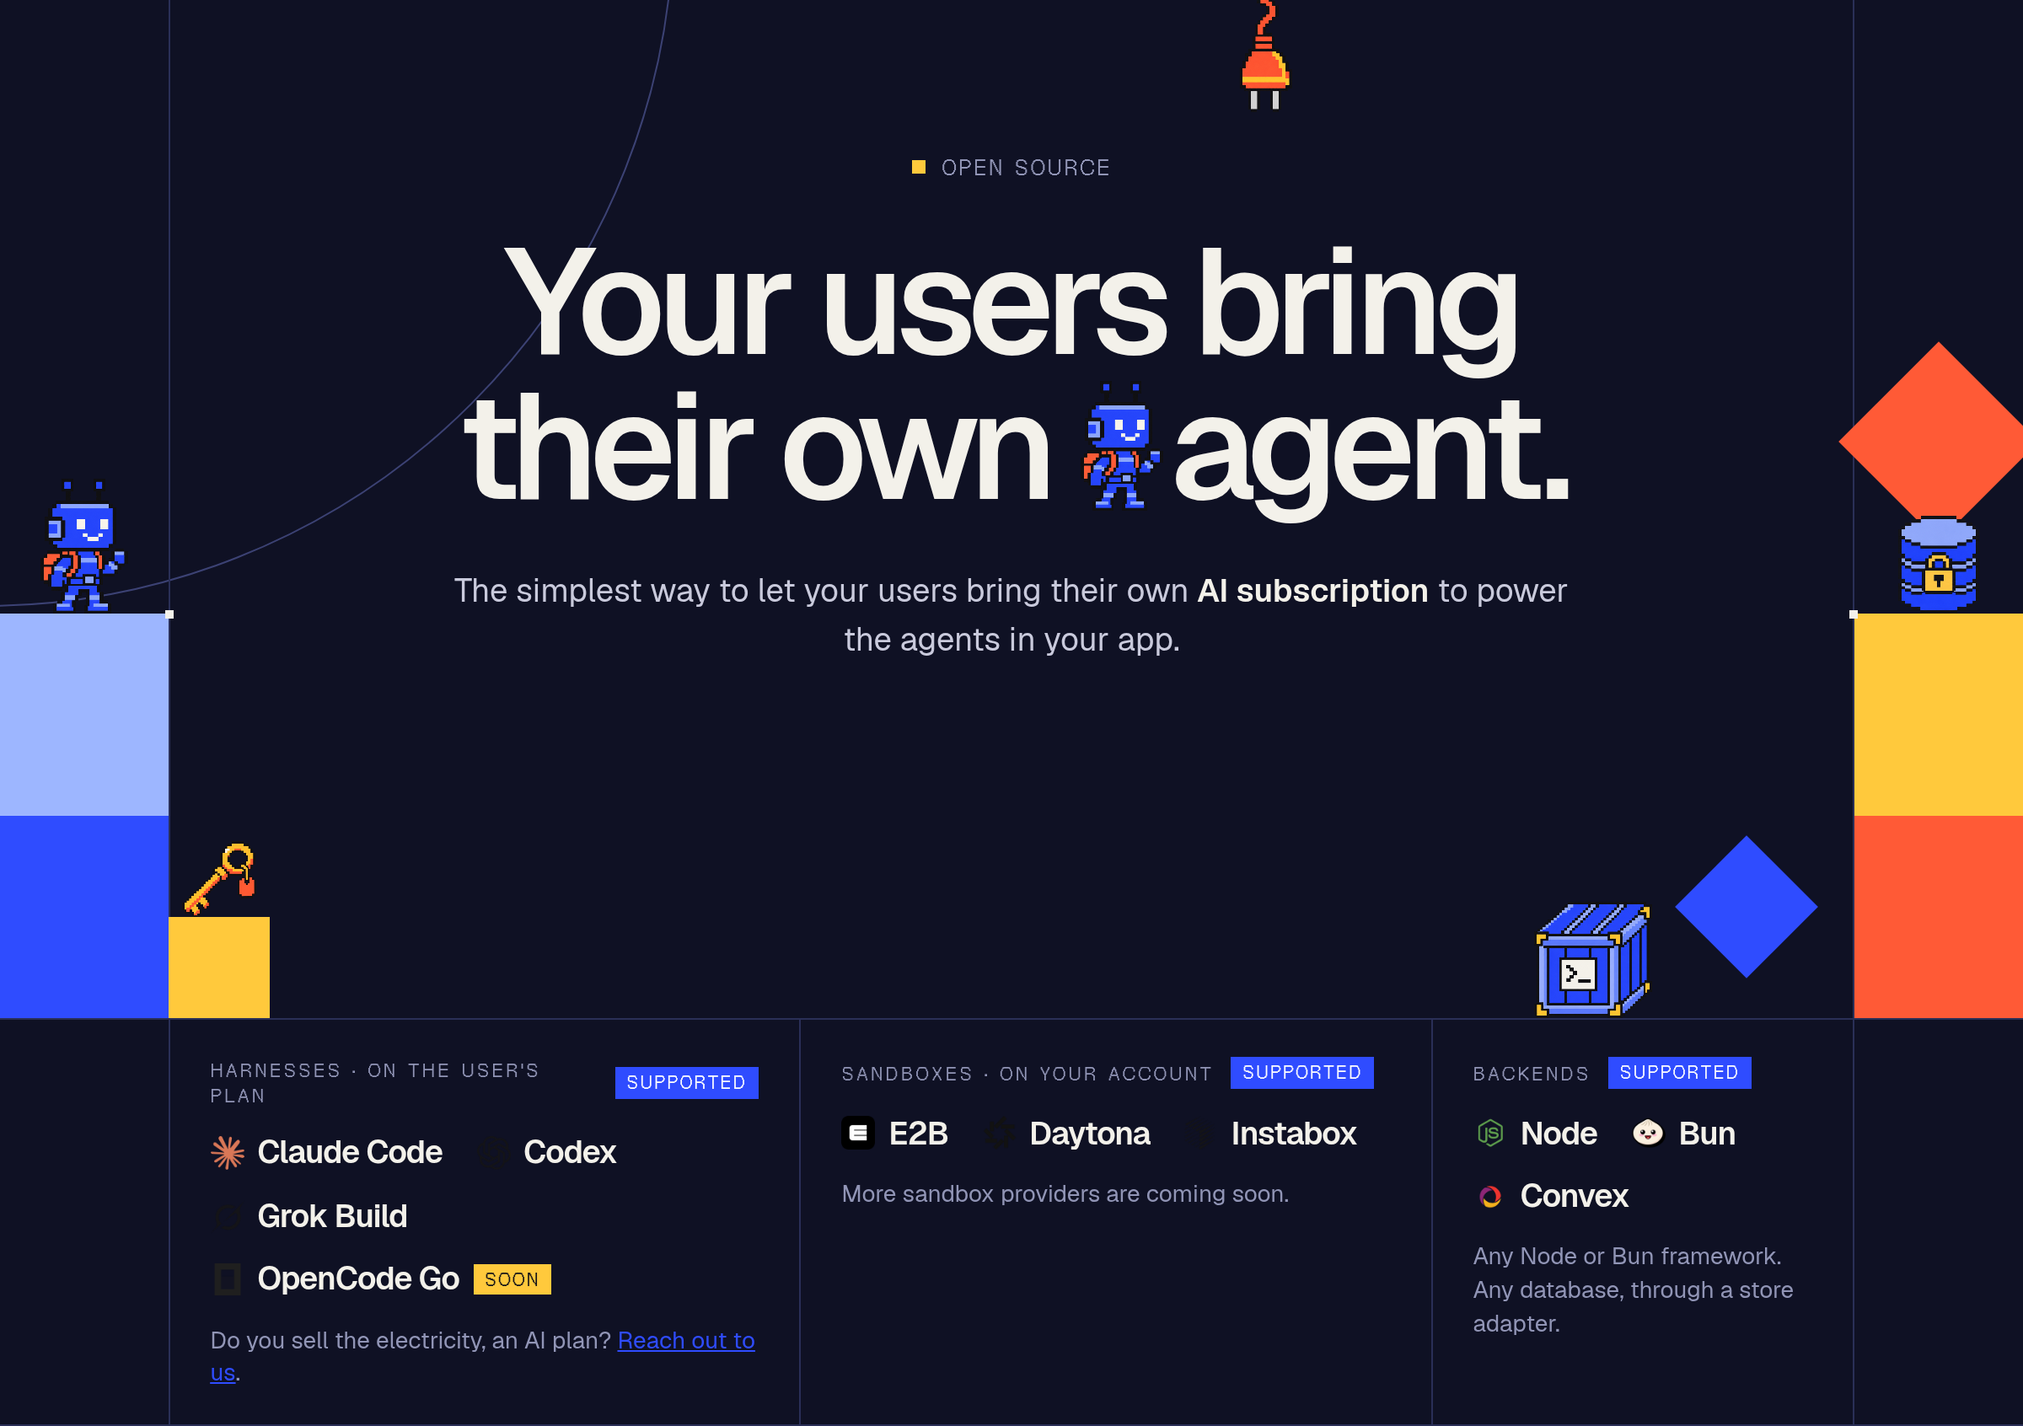
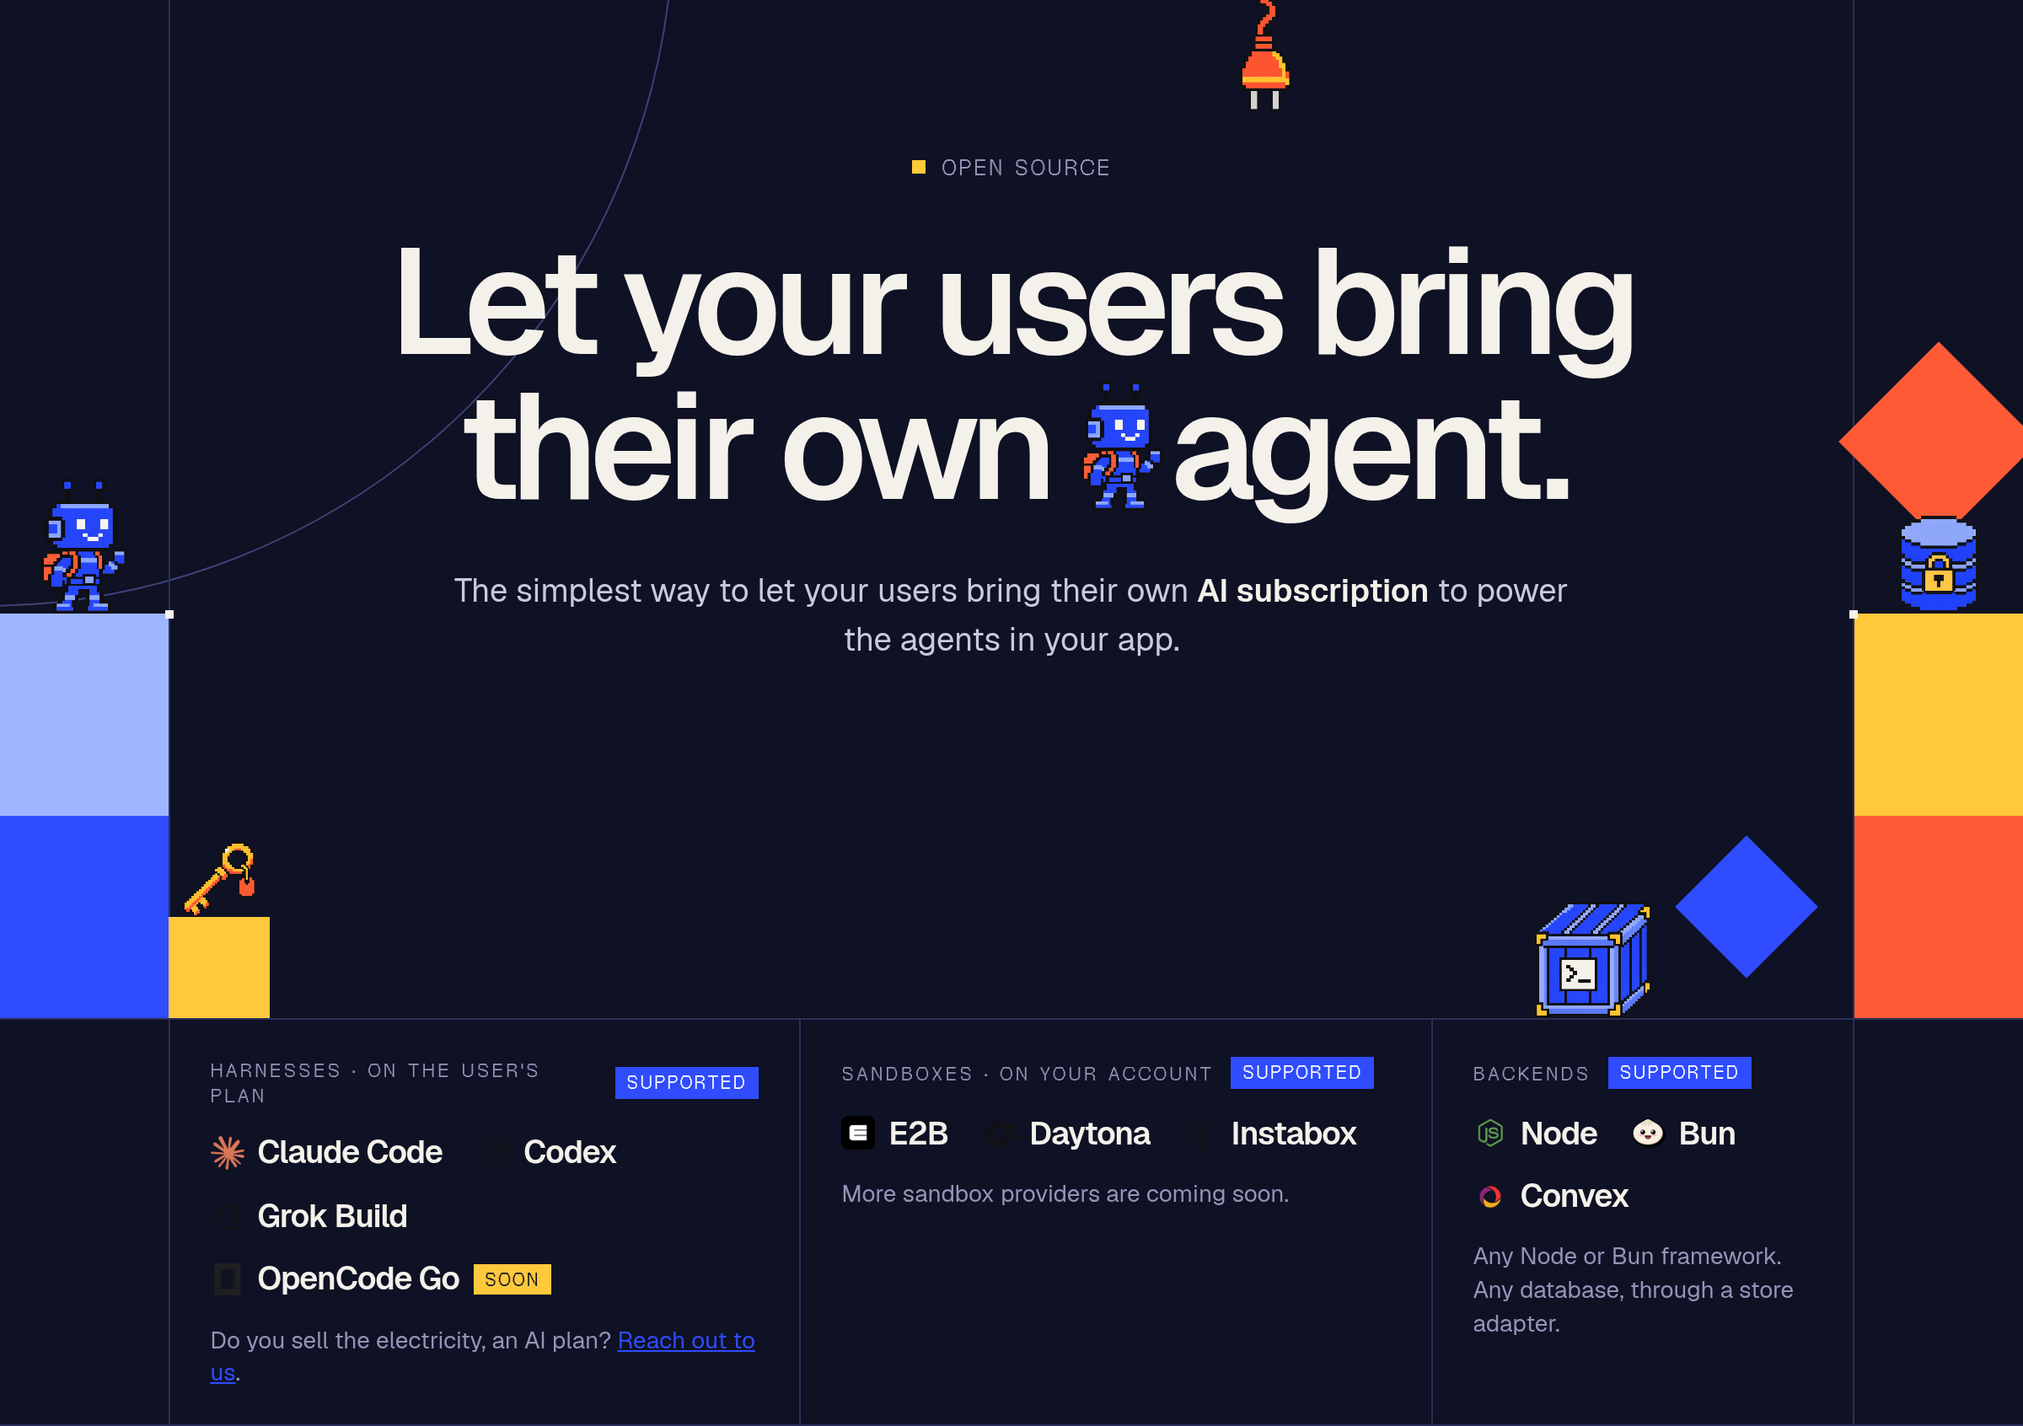
Site: "Let your users bring their own agent." in the hero, and a link card for every page
The hero headline now starts with "Let". The README banner and social preview are captured again from it.
Every page (home, docs, demo) now has og:image (site/art/og.png), og:url and twitter:card summary_large_image,
so a link on X, Slack or iMessage shows a card with the agents and the sandbox providers.

Amp-Thread-ID: https://ampcode.com/threads/T-01a21871-ddc4-733f-8c7f-58373b8a3448

Changed region(s): [[0.1875, 0.1537, 0.8125, 0.2766]]

diff --git a/site/index.html b/site/index.html
@@ -7,6 +7,12 @@
 <meta name="description" content="byoa, short for &quot;bring your own agent&quot;, is the simplest way to let your users bring their own AI subscription to power the agents in your app.">
 <meta property="og:title" content="byoa: bring your own agent">
 <meta property="og:description" content="byoa, short for &quot;bring your own agent&quot;, is the simplest way to let your users bring their own AI subscription to power the agents in your app.">
+<meta property="og:url" content="https://byoa.rippling.computer/">
+<meta property="og:image" content="https://byoa.rippling.computer/art/og.png">
+<meta property="og:image:width" content="2400">
+<meta property="og:image:height" content="1260">
+<meta property="og:image:alt" content="byoa: let your users bring their own agent. Agents: Claude Code, Codex, Grok Build. Sandboxes: E2B, Daytona, Instabox.">
+<meta name="twitter:card" content="summary_large_image">
 <meta name="theme-color" content="#f8f6f0">
 <link rel="canonical" href="https://byoa.rippling.computer/">
 <link rel="icon" href="art/agent.png">
@@ -340,7 +346,7 @@ if (!/^(localhost|127\.0\.0\.1|\[::1\])$/.test(location.hostname)) posthog.init(
     <span class="node" style="left:-3px;bottom:237px"></span><span class="node" style="right:-3px;bottom:237px"></span>
     <div>
       <span class="eyebrow"><i></i>OPEN SOURCE</span>
-      <h1>Your users bring<br>their own <img class="spr px" src="art/agent.png" alt="">agent.</h1>
+      <h1>Let your users bring<br>their own <img class="spr px" src="art/agent.png" alt="">agent.</h1>
       <p class="lead">The simplest way to let your users bring their own <b>AI subscription</b> to power the agents in your app.</p>
       <div class="cta">
         <a class="btn dark" href="#who"><span class="ico"><img class="px" src="art/crate.png" alt=""></span>See how it works <span class="chev"></span></a>

diff --git a/site/template.html b/site/template.html
@@ -7,6 +7,12 @@
 <meta name="description" content="byoa, short for &quot;bring your own agent&quot;, is the simplest way to let your users bring their own AI subscription to power the agents in your app.">
 <meta property="og:title" content="byoa: bring your own agent">
 <meta property="og:description" content="byoa, short for &quot;bring your own agent&quot;, is the simplest way to let your users bring their own AI subscription to power the agents in your app.">
+<meta property="og:url" content="https://byoa.rippling.computer/">
+<meta property="og:image" content="https://byoa.rippling.computer/art/og.png">
+<meta property="og:image:width" content="2400">
+<meta property="og:image:height" content="1260">
+<meta property="og:image:alt" content="byoa: let your users bring their own agent. Agents: Claude Code, Codex, Grok Build. Sandboxes: E2B, Daytona, Instabox.">
+<meta name="twitter:card" content="summary_large_image">
 <meta name="theme-color" content="#f8f6f0">
 <link rel="canonical" href="https://byoa.rippling.computer/">
 <link rel="icon" href="art/agent.png">
@@ -189,7 +195,7 @@
     <span class="node" style="left:-3px;bottom:237px"></span><span class="node" style="right:-3px;bottom:237px"></span>
     <div>
       <span class="eyebrow"><i></i>OPEN SOURCE</span>
-      <h1>Your users bring<br>their own <img class="spr px" src="art/agent.png" alt="">agent.</h1>
+      <h1>Let your users bring<br>their own <img class="spr px" src="art/agent.png" alt="">agent.</h1>
       <p class="lead">The simplest way to let your users bring their own <b>AI subscription</b> to power the agents in your app.</p>
       <div class="cta">
         <a class="btn dark" href="#who"><span class="ico"><img class="px" src="art/crate.png" alt=""></span>See how it works <span class="chev"></span></a>

diff --git a/examples/mail/demo.html b/examples/mail/demo.html
@@ -5,6 +5,14 @@
 <meta name="viewport" content="width=device-width, initial-scale=1">
 <title>byoa mail · live demo</title>
 <meta name="description" content="A live demo of byoa: sign in with your own Claude, ChatGPT or Grok plan, and your own coding agent triages a sample inbox in a sandbox.">
+<meta property="og:title" content="byoa mail · live demo">
+<meta property="og:description" content="Sign in with your own Claude, ChatGPT or Grok plan, and your own coding agent triages a sample inbox in a sandbox.">
+<meta property="og:url" content="https://byoa.rippling.computer/demo">
+<meta property="og:image" content="https://byoa.rippling.computer/art/og.png">
+<meta property="og:image:width" content="2400">
+<meta property="og:image:height" content="1260">
+<meta property="og:image:alt" content="byoa: let your users bring their own agent. Agents: Claude Code, Codex, Grok Build. Sandboxes: E2B, Daytona, Instabox.">
+<meta name="twitter:card" content="summary_large_image">
 <!-- The hosted demo of examples/mail. It is static: site/build.mjs copies it to byoa.rippling.computer/demo, and its
      backend is the Convex deployment in examples/mail/convex. Basecoat: shadcn/ui's components as plain CSS. -->
 <link rel="stylesheet" href="https://cdn.jsdelivr.net/npm/basecoat-css@1.1.0/dist/basecoat.cdn.min.css" integrity="sha384-pGk605ml41MkC5v6mwKQprSH7YgU5ZhqFrTH+liRoLfHsuOg7bGreN2+Dcb63/Ur" crossorigin="anonymous">

diff --git a/site/demo.html b/site/demo.html
@@ -5,6 +5,14 @@
 <meta name="viewport" content="width=device-width, initial-scale=1">
 <title>byoa mail · live demo</title>
 <meta name="description" content="A live demo of byoa: sign in with your own Claude, ChatGPT or Grok plan, and your own coding agent triages a sample inbox in a sandbox.">
+<meta property="og:title" content="byoa mail · live demo">
+<meta property="og:description" content="Sign in with your own Claude, ChatGPT or Grok plan, and your own coding agent triages a sample inbox in a sandbox.">
+<meta property="og:url" content="https://byoa.rippling.computer/demo">
+<meta property="og:image" content="https://byoa.rippling.computer/art/og.png">
+<meta property="og:image:width" content="2400">
+<meta property="og:image:height" content="1260">
+<meta property="og:image:alt" content="byoa: let your users bring their own agent. Agents: Claude Code, Codex, Grok Build. Sandboxes: E2B, Daytona, Instabox.">
+<meta name="twitter:card" content="summary_large_image">
 <!-- The hosted demo of examples/mail. It is static: site/build.mjs copies it to byoa.rippling.computer/demo, and its
      backend is the Convex deployment in examples/mail/convex. Basecoat: shadcn/ui's components as plain CSS. -->
 <link rel="stylesheet" href="https://cdn.jsdelivr.net/npm/basecoat-css@1.1.0/dist/basecoat.cdn.min.css" integrity="sha384-pGk605ml41MkC5v6mwKQprSH7YgU5ZhqFrTH+liRoLfHsuOg7bGreN2+Dcb63/Ur" crossorigin="anonymous">

diff --git a/site/docs/running-agents.html b/site/docs/running-agents.html
@@ -7,6 +7,12 @@
 <meta name="description" content="agents.run and its events, what the agent may do, sandbox modes, conversations and more messages to a running job, jobs at the same time, models and effort, session and jobToken">
 <meta property="og:title" content="Running agents · byoa docs">
 <meta property="og:description" content="agents.run and its events, what the agent may do, sandbox modes, conversations and more messages to a running job, jobs at the same time, models and effort, session and jobToken">
+<meta property="og:url" content="https://byoa.rippling.computer/docs/running-agents">
+<meta property="og:image" content="https://byoa.rippling.computer/art/og.png">
+<meta property="og:image:width" content="2400">
+<meta property="og:image:height" content="1260">
+<meta property="og:image:alt" content="byoa: let your users bring their own agent. Agents: Claude Code, Codex, Grok Build. Sandboxes: E2B, Daytona, Instabox.">
+<meta name="twitter:card" content="summary_large_image">
 <meta name="theme-color" content="#f8f6f0" media="(prefers-color-scheme: light)">
 <meta name="theme-color" content="#0f1124" media="(prefers-color-scheme: dark)">
 <link rel="canonical" href="https://byoa.rippling.computer/docs/running-agents">

diff --git a/site/docs/faq.html b/site/docs/faq.html
@@ -7,6 +7,12 @@
 <meta name="description" content="whether a user's AI account can get banned, many agents of one user, whether the agent remembers earlier jobs, models, and what an AI job costs with byoa and with an API key">
 <meta property="og:title" content="FAQ · byoa docs">
 <meta property="og:description" content="whether a user's AI account can get banned, many agents of one user, whether the agent remembers earlier jobs, models, and what an AI job costs with byoa and with an API key">
+<meta property="og:url" content="https://byoa.rippling.computer/docs/faq">
+<meta property="og:image" content="https://byoa.rippling.computer/art/og.png">
+<meta property="og:image:width" content="2400">
+<meta property="og:image:height" content="1260">
+<meta property="og:image:alt" content="byoa: let your users bring their own agent. Agents: Claude Code, Codex, Grok Build. Sandboxes: E2B, Daytona, Instabox.">
+<meta name="twitter:card" content="summary_large_image">
 <meta name="theme-color" content="#f8f6f0" media="(prefers-color-scheme: light)">
 <meta name="theme-color" content="#0f1124" media="(prefers-color-scheme: dark)">
 <link rel="canonical" href="https://byoa.rippling.computer/docs/faq">

diff --git a/site/docs/sandbox-lifecycle.html b/site/docs/sandbox-lifecycle.html
@@ -7,6 +7,12 @@
 <meta name="description" content="every sandbox byoa creates, from creation to removal, what carries over between jobs, what each provider does, and what byoa does when your backend dies">
 <meta property="og:title" content="Sandbox lifecycle · byoa docs">
 <meta property="og:description" content="every sandbox byoa creates, from creation to removal, what carries over between jobs, what each provider does, and what byoa does when your backend dies">
+<meta property="og:url" content="https://byoa.rippling.computer/docs/sandbox-lifecycle">
+<meta property="og:image" content="https://byoa.rippling.computer/art/og.png">
+<meta property="og:image:width" content="2400">
+<meta property="og:image:height" content="1260">
+<meta property="og:image:alt" content="byoa: let your users bring their own agent. Agents: Claude Code, Codex, Grok Build. Sandboxes: E2B, Daytona, Instabox.">
+<meta name="twitter:card" content="summary_large_image">
 <meta name="theme-color" content="#f8f6f0" media="(prefers-color-scheme: light)">
 <meta name="theme-color" content="#0f1124" media="(prefers-color-scheme: dark)">
 <link rel="canonical" href="https://byoa.rippling.computer/docs/sandbox-lifecycle">

diff --git a/site/docs/ai-login.html b/site/docs/ai-login.html
@@ -7,6 +7,12 @@
 <meta name="description" content="the sign-in on the lab's own page, where the login stays between jobs, one job step by step, jobs at the same time with one login, the OpenCode Go key, and sign-out">
 <meta property="og:title" content="AI login · byoa docs">
 <meta property="og:description" content="the sign-in on the lab's own page, where the login stays between jobs, one job step by step, jobs at the same time with one login, the OpenCode Go key, and sign-out">
+<meta property="og:url" content="https://byoa.rippling.computer/docs/ai-login">
+<meta property="og:image" content="https://byoa.rippling.computer/art/og.png">
+<meta property="og:image:width" content="2400">
+<meta property="og:image:height" content="1260">
+<meta property="og:image:alt" content="byoa: let your users bring their own agent. Agents: Claude Code, Codex, Grok Build. Sandboxes: E2B, Daytona, Instabox.">
+<meta name="twitter:card" content="summary_large_image">
 <meta name="theme-color" content="#f8f6f0" media="(prefers-color-scheme: light)">
 <meta name="theme-color" content="#0f1124" media="(prefers-color-scheme: dark)">
 <link rel="canonical" href="https://byoa.rippling.computer/docs/ai-login">

diff --git a/site/docs/agent-tools.html b/site/docs/agent-tools.html
@@ -7,6 +7,12 @@
 <meta name="description" content="your app's own tools, the user's MCP servers, skills, AGENTS.md and plugins, which one to choose, and what the agent can do in its sandbox">
 <meta property="og:title" content="Give your agent tools · byoa docs">
 <meta property="og:description" content="your app's own tools, the user's MCP servers, skills, AGENTS.md and plugins, which one to choose, and what the agent can do in its sandbox">
+<meta property="og:url" content="https://byoa.rippling.computer/docs/agent-tools">
+<meta property="og:image" content="https://byoa.rippling.computer/art/og.png">
+<meta property="og:image:width" content="2400">
+<meta property="og:image:height" content="1260">
+<meta property="og:image:alt" content="byoa: let your users bring their own agent. Agents: Claude Code, Codex, Grok Build. Sandboxes: E2B, Daytona, Instabox.">
+<meta name="twitter:card" content="summary_large_image">
 <meta name="theme-color" content="#f8f6f0" media="(prefers-color-scheme: light)">
 <meta name="theme-color" content="#0f1124" media="(prefers-color-scheme: dark)">
 <link rel="canonical" href="https://byoa.rippling.computer/docs/agent-tools">

diff --git a/site/docs/index.html b/site/docs/index.html
@@ -7,6 +7,12 @@
 <meta name="description" content="byoa, short for &quot;bring your own agent&quot;, is the simplest way to let your users bring their own AI subscription to power the agents in your app.">
 <meta property="og:title" content="byoa docs">
 <meta property="og:description" content="byoa, short for &quot;bring your own agent&quot;, is the simplest way to let your users bring their own AI subscription to power the agents in your app.">
+<meta property="og:url" content="https://byoa.rippling.computer/docs">
+<meta property="og:image" content="https://byoa.rippling.computer/art/og.png">
+<meta property="og:image:width" content="2400">
+<meta property="og:image:height" content="1260">
+<meta property="og:image:alt" content="byoa: let your users bring their own agent. Agents: Claude Code, Codex, Grok Build. Sandboxes: E2B, Daytona, Instabox.">
+<meta name="twitter:card" content="summary_large_image">
 <meta name="theme-color" content="#f8f6f0" media="(prefers-color-scheme: light)">
 <meta name="theme-color" content="#0f1124" media="(prefers-color-scheme: dark)">
 <link rel="canonical" href="https://byoa.rippling.computer/docs">

diff --git a/site/docs/subscriptions.html b/site/docs/subscriptions.html
@@ -7,6 +7,12 @@
 <meta name="description" content="which Claude, ChatGPT, Grok and OpenCode Go (beta) plans your users can bring, and whether their accounts can get banned">
 <meta property="og:title" content="Supported AI subscriptions · byoa docs">
 <meta property="og:description" content="which Claude, ChatGPT, Grok and OpenCode Go (beta) plans your users can bring, and whether their accounts can get banned">
+<meta property="og:url" content="https://byoa.rippling.computer/docs/subscriptions">
+<meta property="og:image" content="https://byoa.rippling.computer/art/og.png">
+<meta property="og:image:width" content="2400">
+<meta property="og:image:height" content="1260">
+<meta property="og:image:alt" content="byoa: let your users bring their own agent. Agents: Claude Code, Codex, Grok Build. Sandboxes: E2B, Daytona, Instabox.">
+<meta name="twitter:card" content="summary_large_image">
 <meta name="theme-color" content="#f8f6f0" media="(prefers-color-scheme: light)">
 <meta name="theme-color" content="#0f1124" media="(prefers-color-scheme: dark)">
 <link rel="canonical" href="https://byoa.rippling.computer/docs/subscriptions">

diff --git a/site/docs/mcp.html b/site/docs/mcp.html
@@ -7,6 +7,12 @@
 <meta name="description" content="connect a user's MCP servers once, the proxy and job tokens, your app's own tools, and calls with a user's grant">
 <meta property="og:title" content="MCP tools and the proxy · byoa docs">
 <meta property="og:description" content="connect a user's MCP servers once, the proxy and job tokens, your app's own tools, and calls with a user's grant">
+<meta property="og:url" content="https://byoa.rippling.computer/docs/mcp">
+<meta property="og:image" content="https://byoa.rippling.computer/art/og.png">
+<meta property="og:image:width" content="2400">
+<meta property="og:image:height" content="1260">
+<meta property="og:image:alt" content="byoa: let your users bring their own agent. Agents: Claude Code, Codex, Grok Build. Sandboxes: E2B, Daytona, Instabox.">
+<meta name="twitter:card" content="summary_large_image">
 <meta name="theme-color" content="#f8f6f0" media="(prefers-color-scheme: light)">
 <meta name="theme-color" content="#0f1124" media="(prefers-color-scheme: dark)">
 <link rel="canonical" href="https://byoa.rippling.computer/docs/mcp">
